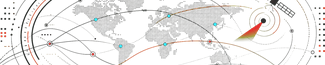
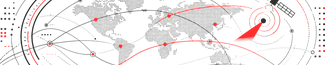
feat(daily-ai-news): keep the masthead's two inks across the page
Five saturated primaries on small decorations made the page look cheap.
Every word is now in the theme's ink and the panel's red is the one
accent, as in the black-and-red masthead:
- the lead gets a vertical red 头条 seal instead of a red pill and card,
  with its section and tag as plain ink text before the title;
- column bars and tag outlines are ink instead of green and blue;
- the topic medallion is an ink disc with a red marker, without the
  yellow bubble and sparkle; the globe keeps one red pin;
- market changes are ink figures with a small red or green triangle and
  an ink sparkline, without the solid pills and tile cards;
- the radar band's cyan nodes and orange sweep are red, its map stays grey.

diff --git a/inkypi-weather/package/InkyPi/src/plugins/daily_ai_news/news_layout.py b/inkypi-weather/package/InkyPi/src/plugins/daily_ai_news/news_layout.py
@@ -3,6 +3,10 @@
 The plugin prepares plain data (lead, sections, quotes, meta); this module only
 draws it. Spare column space gets a small globe with that column's sources, and
 the lead band carries a topic medallion from ``news_art``.
+
+The page keeps the masthead's two inks: every word in the theme's ink, and the
+panel's red only for the lead's 头条 seal, small markers and market gains. Losses
+keep the market's green, but only as a small solid mark beside an ink figure.
 """
 
 from __future__ import annotations
@@ -15,6 +19,8 @@ MARGIN = 20
 RULE_Y = 56
 LEAD_BOX = (64, 146)
 LEAD_ART_WIDTH = 170
+# A vertical red seal reading 头条 marks the lead story.
+SEAL_SIZE = (28, 54)
 COLUMN_TOP = 156
 COLUMN_GAP = 24
 COLUMN_BOTTOM = 388
@@ -98,8 +104,8 @@ class NewsPage:
         self.lead(lead, width, art_left)
         column_width = (width - 2 * MARGIN - COLUMN_GAP) // 2
         left_x, right_x = MARGIN, MARGIN + column_width + COLUMN_GAP
-        self.column(left_x, column_width, "国内", self.c["domestic"], mainland, sources=meta.get("mainland_sources") or [])
-        self.column(right_x, column_width, "国际", self.c["world"], world, sources=meta.get("world_sources") or [])
+        self.column(left_x, column_width, "国内", mainland, sources=meta.get("mainland_sources") or [])
+        self.column(right_x, column_width, "国际", world, sources=meta.get("world_sources") or [])
         self.market(left_x, column_width, "A股", quotes.get("a_share") or [], height)
         self.market(right_x, column_width, "美股", quotes.get("us_stock") or [], height)
 
@@ -120,39 +126,44 @@ class NewsPage:
         self.text((right, 33), detail, 11, True, detail_colour, "ra")
         meta_left = right - max(self.width(date_text, 17), self.width(detail, 11))
         self.p._draw_title_background(self.img, (title_right + 12, 4, meta_left - 14, RULE_Y - 4))
-        self.d.line((MARGIN, RULE_Y, right, RULE_Y), fill=c["rule"], width=1)
+        self.d.line((MARGIN, RULE_Y, right, RULE_Y), fill=c["ink"], width=2)
 
     def lead(self, lead, width, art_left):
         c = self.c
         top, bottom = LEAD_BOX
-        self.d.rounded_rectangle((MARGIN, top, width - MARGIN, bottom), radius=12, fill=c["card"], outline=c["rule"])
-        self.d.rounded_rectangle((MARGIN, top, MARGIN + 6, bottom), radius=3, fill=c["lead"])
         if not lead:
-            self.text((MARGIN + 18, top + 28), "新闻源暂无更新", 20, True)
+            self.text((MARGIN, top + 28), "新闻源暂无更新", 20, True)
             return
-        label = " · ".join(part for part in ("头条", lead.get("section_label"), lead.get("tag")) if part)
-        chip_w = self.chip(MARGIN + 18, top + 9, label, c["lead"], size=11)
-        title_x = MARGIN + 18 + chip_w + 12
+        seal_w, seal_h = SEAL_SIZE
+        self.d.rounded_rectangle((MARGIN, top + 9, MARGIN + seal_w, top + 9 + seal_h), radius=3, fill=c["lead"])
+        seal_ink = self.p._contrast_ink(c["lead"], c)
+        for index, char in enumerate("头条"):
+            self.text((MARGIN + seal_w / 2, top + 9 + seal_h * (1 + 2 * index) / 4), char, 17, True, seal_ink, "mm")
+        text_x = MARGIN + seal_w + 14
+        label = " · ".join(part for part in (lead.get("section_label"), lead.get("tag")) if part)
+        title_x = text_x + (self.width(label, 12) + 10 if label else 0)
+        if label:
+            self.text((text_x, top + 19), label, 12, True, c["ink"], "lm")
         title_w = art_left - 12 - title_x
         size = self.fit_size(lead["title"], (23, 21, 19), title_w)
         self.text((title_x, top + 7 + (23 - size) // 2), self.clip(lead["title"], size, title_w), size, True)
-        brief_w = art_left - 12 - (MARGIN + 18)
+        brief_w = art_left - 12 - text_x
         for index, line in enumerate(self.wrap(lead.get("why"), 14, brief_w, 2, False)):
-            self.text((MARGIN + 18, top + 44 + index * 19), line, 14, False)
+            self.text((text_x, top + 44 + index * 19), line, 14, False)
         kind = news_art.topic_kind(lead.get("tag"), lead["title"])
         news_art.draw_topic_art(self.d, (art_left, top + 4, width - MARGIN - 6, bottom - 4), kind,
-                                c["ink"], c["panel"], c["rule"])
+                                c["ink"], c["panel"], c["rule"], c["lead"])
 
-    def column(self, x, width, label, colour, items, *, sources):
+    def column(self, x, width, label, items, *, sources):
         c = self.c
-        self.d.rounded_rectangle((x, COLUMN_TOP + 3, x + 4, COLUMN_TOP + 15), radius=2, fill=colour)
+        self.d.rectangle((x, COLUMN_TOP + 3, x + 3, COLUMN_TOP + 15), fill=c["ink"])
         self.text((x + 10, COLUMN_TOP), label, 14, True)
         count_x = x + 14 + self.width(label, 14)
         self.d.line((x, COLUMN_TOP + 22, x + width, COLUMN_TOP + 22), fill=c["rule"], width=1)
         y = COLUMN_TOP + 32
         plan, gap = self.plan_column(items, width - 26, COLUMN_BOTTOM - y)
         for number, (item, title_lines) in enumerate(zip(items, plan), 1):
-            y += self.item(x, y, width, number, item, colour, title_lines) + gap
+            y += self.item(x, y, width, number, item, title_lines) + gap
         self.text((count_x, COLUMN_TOP + 2), str(len(plan)), 11, True)
         if COLUMN_BOTTOM - y >= GLOBE_MIN_HEIGHT:
             self.globe_filler(x, y, width, COLUMN_BOTTOM, label, sources)
@@ -183,7 +194,7 @@ class NewsPage:
                 best = (lines, gap, whole)
         return best[0], best[1]
 
-    def item(self, x, y, width, number, item, colour, title_lines):
+    def item(self, x, y, width, number, item, title_lines):
         c = self.c
         self.text((x, y + 1), f"{number:02d}", 13, True)
         text_x, text_w = x + 26, width - 26
@@ -193,7 +204,7 @@ class NewsPage:
         row_y = y + len(lines) * TITLE_LINE + 1
         tag = item.get("tag") or ""
         # The tag sits under the number, so the fact gets the full row after it.
-        fact_x = x + self.chip(x, row_y, tag, colour, size=10, solid=False) + 6 if tag else text_x
+        fact_x = x + self.chip(x, row_y, tag, c["ink"], size=10, solid=False) + 6 if tag else text_x
         why = self.clip(item.get("why"), 12, x + width - fact_x, False)
         if why:
             self.text((fact_x, row_y + 9), why, 12, False, c["ink"], "lm")
@@ -203,7 +214,7 @@ class NewsPage:
         c = self.c
         middle = (top + bottom) // 2
         radius = max(12, min(20, (bottom - top) // 2 - 6))
-        news_art.draw_globe(self.d, x + 34, middle, radius, c["ink"], c["panel"])
+        news_art.draw_globe(self.d, x + 34, middle, radius, c["ink"], c["panel"], c["lead"])
         text_x = x + 34 + radius + 22
         self.text((text_x, middle - 18), f"{label}信源持续追踪", 12, True)
         names = " · ".join(sources) if sources else "每次刷新重新汇总"
@@ -216,11 +227,13 @@ class NewsPage:
         if as_of:
             self.text((x + width, MARKET_TOP), f"截至 {as_of}", 10, True, c["ink"], "ra")
         top, bottom = MARKET_TOP + 14, height - 12
+        self.d.line((x, top, x + width, top), fill=c["rule"], width=1)
         tile_w = (width - 16) // 3
         for index in range(3):
             left = x + index * (tile_w + 8)
             box = (left, top, left + tile_w, bottom)
-            self.d.rounded_rectangle(box, radius=10, fill=c["card"], outline=c["rule"], width=1)
+            if index:
+                self.d.line((left - 4, top + 6, left - 4, bottom), fill=c["rule"], width=1)
             if index < len(rows):
                 self.quote(box, rows[index])
             else:
@@ -230,20 +243,29 @@ class NewsPage:
         c = self.c
         left, top, right, bottom = box
         pct = row.get("change_pct")
-        colour = c["ink"]
-        self.text((left + 10, top + 7), row.get("label") or "", 11, True)
+        mark = None
+        self.text((left + 2, top + 7), row.get("label") or "", 11, True)
         if isinstance(pct, (int, float)) and round(pct, 2):
-            # A solid primary pill with contrasting text stays crisp on the panel.
-            colour = c["up"] if pct > 0 else c["down"]
+            mark = c["up"] if pct > 0 else c["down"]
             text = f"{pct:+.2f}%"
-            self.chip(right - 8 - (self.width(text, 11) + 14), top + 5, text, colour, size=11)
+            text_left = right - 4 - self.width(text, 12)
+            self.text((right - 4, top + 7), text, 12, True, c["ink"], "ra")
+            self.change_mark(text_left - 10, top + 14, pct > 0, mark)
         else:
-            self.text((right - 10, top + 7), "0.00%" if isinstance(pct, (int, float)) else "--", 12, True, c["ink"], "ra")
+            self.text((right - 4, top + 7), "0.00%" if isinstance(pct, (int, float)) else "--", 12, True, c["ink"], "ra")
         price = row.get("price")
-        self.text((left + 10, top + 23), f"{price:,.2f}" if isinstance(price, (int, float)) else "--", 14, True)
-        self.sparkline((left + 10, bottom - 15, right - 10, bottom - 6), row.get("closes") or [], colour)
+        self.text((left + 2, top + 23), f"{price:,.2f}" if isinstance(price, (int, float)) else "--", 14, True)
+        self.sparkline((left + 2, bottom - 15, right - 6, bottom - 6), row.get("closes") or [], mark)
 
-    def sparkline(self, box, closes, colour):
+    def change_mark(self, cx, cy, up, colour):
+        """A small solid triangle: the only place a market's colour appears."""
+        half = 5
+        points = ((cx - half, cy + 3), (cx + half, cy + 3), (cx, cy - 5)) if up else \
+            ((cx - half, cy - 4), (cx + half, cy - 4), (cx, cy + 4))
+        self.d.polygon(points, fill=colour)
+
+    def sparkline(self, box, closes, mark=None):
+        """An ink trend line; its end dot carries the day's direction colour when there is one."""
         left, top, right, bottom = box
         values = [value for value in closes if isinstance(value, (int, float))]
         if len(values) < 2:
@@ -257,9 +279,9 @@ class NewsPage:
             (left + (right - left) * index / (len(values) - 1), bottom - (bottom - top) * (value - low) / span)
             for index, value in enumerate(values)
         ]
-        self.d.line(points, fill=colour, width=2)
+        self.d.line(points, fill=self.c["ink"], width=1)
         end_x, end_y = points[-1]
-        self.d.ellipse((end_x - 2, end_y - 2, end_x + 2, end_y + 2), fill=colour)
+        self.d.ellipse((end_x - 3, end_y - 3, end_x + 3, end_y + 3), fill=mark or self.c["ink"])
 
 
 def date_text(moment):

diff --git a/inkypi-weather/package/InkyPi/src/plugins/daily_ai_news/news_art.py b/inkypi-weather/package/InkyPi/src/plugins/daily_ai_news/news_art.py
@@ -1,20 +1,14 @@
 """Procedural spot art for the 整点新闻 page.
 
-Flat shapes without anti-aliasing in the six colours the Spectra 6 panel shows
-solidly (plus the theme's ink and panel), so the art stays crisp after dithering:
-a topic medallion beside the lead story and a small globe for spare column space.
+Flat shapes without anti-aliasing in the page's two inks, like its masthead: the
+theme's ink and panel, plus the panel's own red for one small mark, so the art
+stays crisp after dithering. A topic medallion sits beside the lead story and a
+small globe fills spare column space.
 """
 
 from __future__ import annotations
 
 import math
-
-BLACK = (0, 0, 0)
-WHITE = (255, 255, 255)
-YELLOW = (255, 255, 0)
-RED = (255, 0, 0)
-BLUE = (0, 0, 255)
-GREEN = (0, 255, 0)
 
 # Keyword groups, checked in order against the lead's tag and then its title.
 TOPIC_KEYWORDS = (
@@ -29,18 +23,6 @@ TOPIC_KEYWORDS = (
                  "央行", "关税", "就业", "消费", "制造")),
     ("politics", ("外交", "选举", "公投", "政治", "两岸", "会谈", "峰会", "政府", "议会", "国台办", "总统", "首相")),
 )
-TOPIC_COLOURS = {
-    "health": RED,
-    "conflict": BLACK,
-    "aviation": BLUE,
-    "tech": BLUE,
-    "climate": GREEN,
-    "justice": BLACK,
-    "sports": GREEN,
-    "economy": GREEN,
-    "politics": RED,
-    "news": BLACK,
-}
 
 
 # Topics too broad to picture a story on their own; a title with a specific topic wins.
@@ -65,8 +47,8 @@ def topic_kind(tag, title=""):
     return kind
 
 
-def draw_topic_art(draw, box, kind, ink, panel, rule):
-    """A topic medallion with a ring, an accent bubble and a dot grid inside ``box``."""
+def draw_topic_art(draw, box, kind, ink, panel, rule, accent):
+    """An ink topic medallion with an open ring, a red marker and a dot grid inside ``box``."""
     left, top, right, bottom = [int(value) for value in box]
     height = bottom - top
     radius = max(12, min(height // 2 - 6, (right - left) // 4))
@@ -79,18 +61,17 @@ def draw_topic_art(draw, box, kind, ink, panel, rule):
                 draw.ellipse((x - 1, y - 1, x + 1, y + 1), fill=rule)
     ring = radius + 7
     draw.arc((cx - ring, cy - ring, cx + ring, cy + ring), 150, 330, fill=ink, width=2)
-    colour = TOPIC_COLOURS.get(kind, BLACK)
-    draw.ellipse((cx - radius, cy - radius, cx + radius, cy + radius), fill=colour, outline=ink, width=2)
-    glyph = WHITE if colour in (BLACK, RED, BLUE) else BLACK
-    GLYPHS.get(kind, _newspaper)(draw, cx, cy, radius, glyph, colour)
-    bubble = max(5, radius // 3)
-    bx, by = cx - radius + 2, cy - radius + 4
-    draw.ellipse((bx - bubble, by - bubble, bx + bubble, by + bubble), fill=YELLOW, outline=ink, width=1)
-    _sparkle(draw, cx + radius + 4, cy + radius - 2, max(3, radius // 6), ink)
+    draw.ellipse((cx - radius, cy - radius, cx + radius, cy + radius), fill=ink)
+    GLYPHS.get(kind, _newspaper)(draw, cx, cy, radius, panel, ink)
+    # The marker sits where the ring ends, like a pin on the radar band above it.
+    angle = math.radians(330)
+    mx, my = cx + math.cos(angle) * ring, cy + math.sin(angle) * ring
+    dot = max(3, radius // 6)
+    draw.ellipse((mx - dot, my - dot, mx + dot, my + dot), fill=accent)
 
 
-def draw_globe(draw, cx, cy, radius, ink, panel, pins=(RED, BLUE, YELLOW)):
-    """A small wireframe globe with location pins and an orbiting satellite."""
+def draw_globe(draw, cx, cy, radius, ink, panel, accent):
+    """A small wireframe globe with one red location pin and an orbit."""
     orbit = (cx - radius - 12, cy - radius // 3 - 2, cx + radius + 12, cy + radius // 3 + 2)
     draw.arc(orbit, 180, 360, fill=ink, width=1)
     draw.ellipse((cx - radius, cy - radius, cx + radius, cy + radius), fill=panel, outline=ink, width=2)
@@ -101,21 +82,11 @@ def draw_globe(draw, cx, cy, radius, ink, panel, pins=(RED, BLUE, YELLOW)):
         y = cy + round(radius * ratio)
         half = round(math.sqrt(max(0.0, radius * radius - (y - cy) ** 2)))
         draw.line((cx - half, y, cx + half, y), fill=ink, width=1)
-    for (dx, dy), colour in zip(((-0.42, -0.35), (0.34, 0.1), (-0.1, 0.48)), pins):
-        px, py = cx + round(radius * dx), cy + round(radius * dy)
-        draw.ellipse((px - 4, py - 4, px + 4, py + 4), fill=colour, outline=ink, width=1)
+    px, py = cx + round(radius * 0.34), cy + round(radius * 0.1)
+    draw.ellipse((px - 4, py - 4, px + 4, py + 4), fill=accent, outline=panel, width=1)
     draw.arc(orbit, 0, 180, fill=ink, width=1)
     sx, sy = orbit[2] - 2, cy
-    draw.rectangle((sx - 3, sy - 2, sx + 3, sy + 2), fill=YELLOW, outline=ink)
-
-
-def _sparkle(draw, cx, cy, radius, ink):
-    points = []
-    for index in range(8):
-        reach = radius if index % 2 == 0 else max(1, radius // 3)
-        angle = -math.pi / 2 + index * math.pi / 4
-        points.append((cx + math.cos(angle) * reach, cy + math.sin(angle) * reach))
-    draw.polygon(points, fill=YELLOW, outline=ink)
+    draw.ellipse((sx - 2, sy - 2, sx + 2, sy + 2), fill=ink)
 
 
 def _cross(draw, cx, cy, r, glyph, _fill):
@@ -191,7 +162,7 @@ def _storm(draw, cx, cy, r, glyph, fill):
     bolt = [(cx + 2, cy + 2), (cx - round(r * 0.2), cy + round(r * 0.45)), (cx - 1, cy + round(r * 0.42)),
             (cx - round(r * 0.08), cy + round(r * 0.78)), (cx + round(r * 0.25), cy + round(r * 0.3)),
             (cx + 2, cy + round(r * 0.33))]
-    draw.polygon(bolt, fill=YELLOW if fill != YELLOW else BLACK)
+    draw.polygon(bolt, fill=fill)
 
 
 def _scales(draw, cx, cy, r, glyph, _fill):

diff --git a/inkypi-weather/package/InkyPi/tests/test_daily_ai_news.py b/inkypi-weather/package/InkyPi/tests/test_daily_ai_news.py
@@ -1810,7 +1810,7 @@ def test_render_draws_lead_columns_meta_and_market_tiles(monkeypatch):
     assert image.size == (800, 480)
     assert "10月21日 周三" in seen
     assert "07:34 更新 · 3 个信源" in seen
-    assert "头条 · 国际 · 公卫" in seen
+    assert {"头", "条", "国际 · 公卫"} <= set(seen)
     assert "尼日利亚确诊埃博拉病例" in seen
     assert {"大陆新闻1", "大陆新闻4", "英国派战机协防沙特"} <= set(seen)
     assert {"上证", "-0.05%", "3,733.52", "标普", "+0.28%", "截至 10/21", "截至 10/20"} <= set(seen)
@@ -1873,25 +1873,24 @@ def test_render_positions_the_radar_band_between_title_and_meta(monkeypatch):
     assert 620 <= right <= 680
 
 
-def test_market_changes_are_solid_red_and_green_pills(monkeypatch):
+def test_market_changes_are_ink_figures_with_red_and_green_marks(monkeypatch):
     plugin = _plugin()
-    chips = {}
-    original_chip = news_layout.NewsPage.chip
+    marks = []
+    original_mark = news_layout.NewsPage.change_mark
 
-    def record_chip(self, x, y, text, colour, *args, **kwargs):
-        chips[text] = (colour, kwargs.get("solid", True))
-        return original_chip(self, x, y, text, colour, *args, **kwargs)
+    def record_mark(self, cx, cy, up, colour):
+        marks.append((up, colour))
+        return original_mark(self, cx, cy, up, colour)
 
-    monkeypatch.setattr(news_layout.NewsPage, "chip", record_chip)
+    monkeypatch.setattr(news_layout.NewsPage, "change_mark", record_mark)
+    _image, fills = _rendered_fills(monkeypatch, plugin)
 
-    plugin._render((800, 480), {"brief_title": "整点新闻"}, _page_payload(), datetime(2026, 10, 21), {"mode": "day"})
+    assert (True, (255, 0, 0)) in marks and (False, (0, 255, 0)) in marks
+    ink = daily_ai_news_module.get_theme_palette("day")["ink"]
+    assert fills["+0.28%"] == fills["-0.05%"] == ink
 
-    assert chips["+0.28%"] == ((255, 0, 0), True)
-    assert chips["-0.05%"] == ((0, 255, 0), True)
 
-
-def test_small_text_is_pure_ink_and_accents_are_panel_primaries(monkeypatch):
-    plugin = _plugin()
+def _rendered_fills(monkeypatch, plugin):
     fills = {}
     original_text = ImageDraw.ImageDraw.text
 
@@ -1901,14 +1900,22 @@ def test_small_text_is_pure_ink_and_accents_are_panel_primaries(monkeypatch):
 
     monkeypatch.setattr(ImageDraw.ImageDraw, "text", capture_text)
     image = plugin._render((800, 480), {"brief_title": "整点新闻"}, _page_payload(), datetime(2026, 10, 21), {"mode": "day"})
+    return image, fills
+
+
+def test_small_text_is_pure_ink_and_red_is_the_one_accent(monkeypatch):
+    plugin = _plugin()
+
+    image, fills = _rendered_fills(monkeypatch, plugin)
 
     ink = daily_ai_news_module.get_theme_palette("day")["ink"]
-    assert fills["01"] == ink
-    assert fills["金融"] == ink
-    assert fills["头条 · 国际 · 公卫"] == (255, 255, 255)
-    primaries = {(0, 0, 0), (255, 255, 255), (255, 255, 0), (255, 0, 0), (0, 0, 255), (0, 255, 0)}
+    assert fills["01"] == fills["金融"] == fills["国际 · 公卫"] == ink
+    # The lead's seal is the panel's red with white characters.
+    assert fills["头"] == fills["条"] == (255, 255, 255)
     palette = plugin._page_palette({"mode": "day"})
-    assert {palette[key] for key in ("lead", "domestic", "world", "up", "down", "card")} <= primaries
+    assert palette["lead"] == palette["up"] == (255, 0, 0) and palette["down"] == (0, 255, 0)
+    assert "domestic" not in palette and "world" not in palette
+    assert image.getpixel((22, 100)) == (255, 0, 0)
     assert image.getpixel((400, 100)) == (255, 255, 255)
 
 

diff --git a/inkypi-weather/package/InkyPi/src/plugins/daily_ai_news/daily_ai_news.py b/inkypi-weather/package/InkyPi/src/plugins/daily_ai_news/daily_ai_news.py
@@ -185,13 +185,14 @@ HOT_NEWS_TERM_GROUPS = (
 )
 # Tag for an RSS-only card, from its chinanews.com.cn desk.
 SOURCE_DESK_TAGS = {"要闻": "要闻", "国内": "时政", "财经": "经济", "社会": "社会", "即时": "要闻"}
-# Accents are the panel's own primaries, which it shows solidly instead of dithering;
-# gains are red and losses green, as Chinese market quotes show them.
-PAGE_ACCENTS = {"lead": (255, 0, 0), "domestic": (0, 255, 0), "world": (0, 0, 255), "up": (255, 0, 0), "down": (0, 255, 0)}
+# The page keeps the masthead's two inks: the panel's own red, which it shows solidly
+# instead of dithering, is the one accent. Gains are red and losses green, as Chinese
+# market quotes show them, but only as small solid marks.
+PAGE_ACCENTS = {"lead": (255, 0, 0), "up": (255, 0, 0), "down": (0, 255, 0)}
 # The page is laid out for the 800x480 panel; other displays get it scaled to fit.
 PAGE_SIZE = (800, 480)
-PAGE_DAY_COLOURS = {**PAGE_ACCENTS, "card": (255, 255, 255)}
-PAGE_NIGHT_COLOURS = {**PAGE_ACCENTS, "card": (0, 0, 0), "panel": (0, 0, 0)}
+PAGE_DAY_COLOURS = dict(PAGE_ACCENTS)
+PAGE_NIGHT_COLOURS = {**PAGE_ACCENTS, "panel": (0, 0, 0)}
 FEED_SECTION_PREFIXES = {
     "大陆": "mainland",
     "大陆新闻": "mainland",
